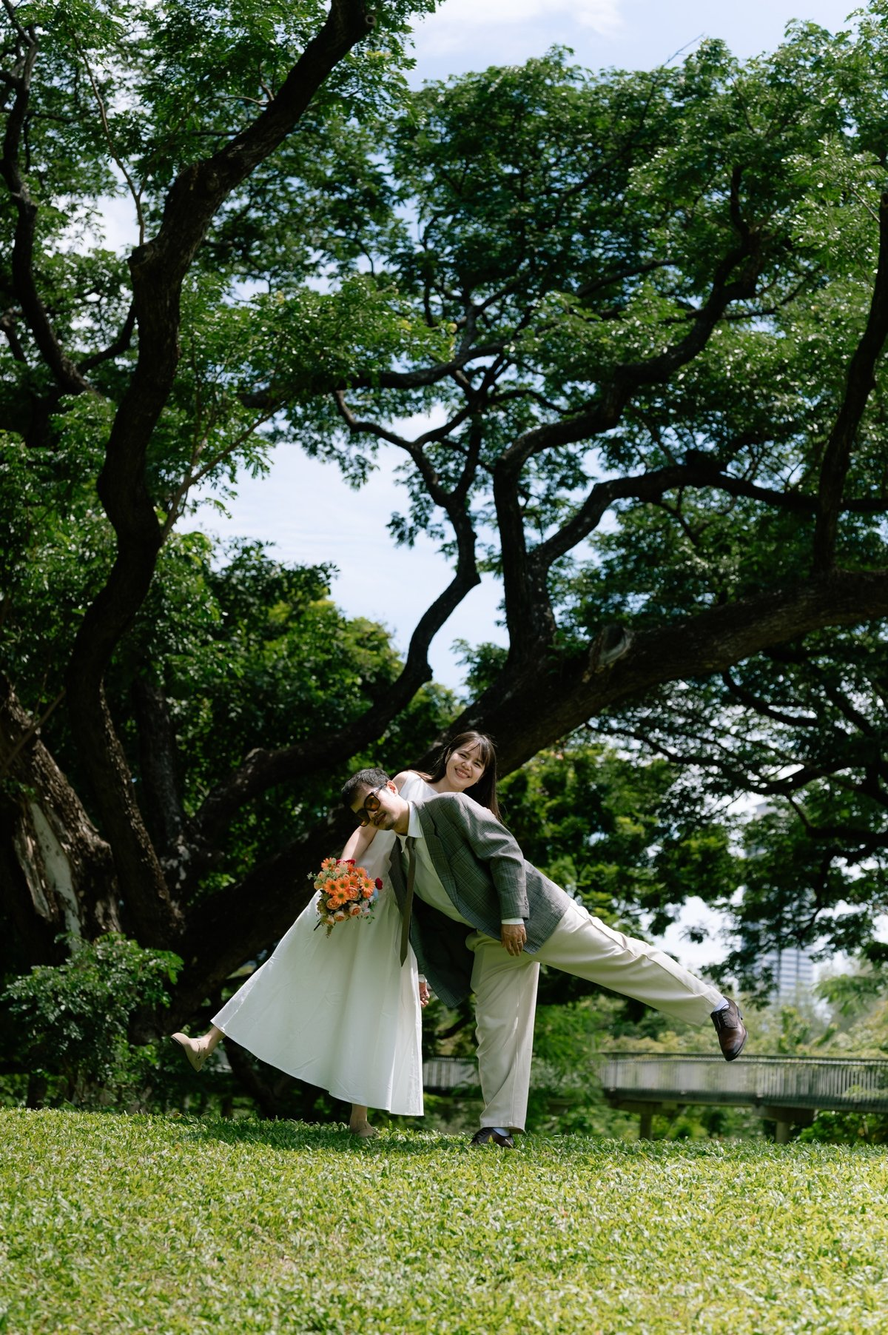
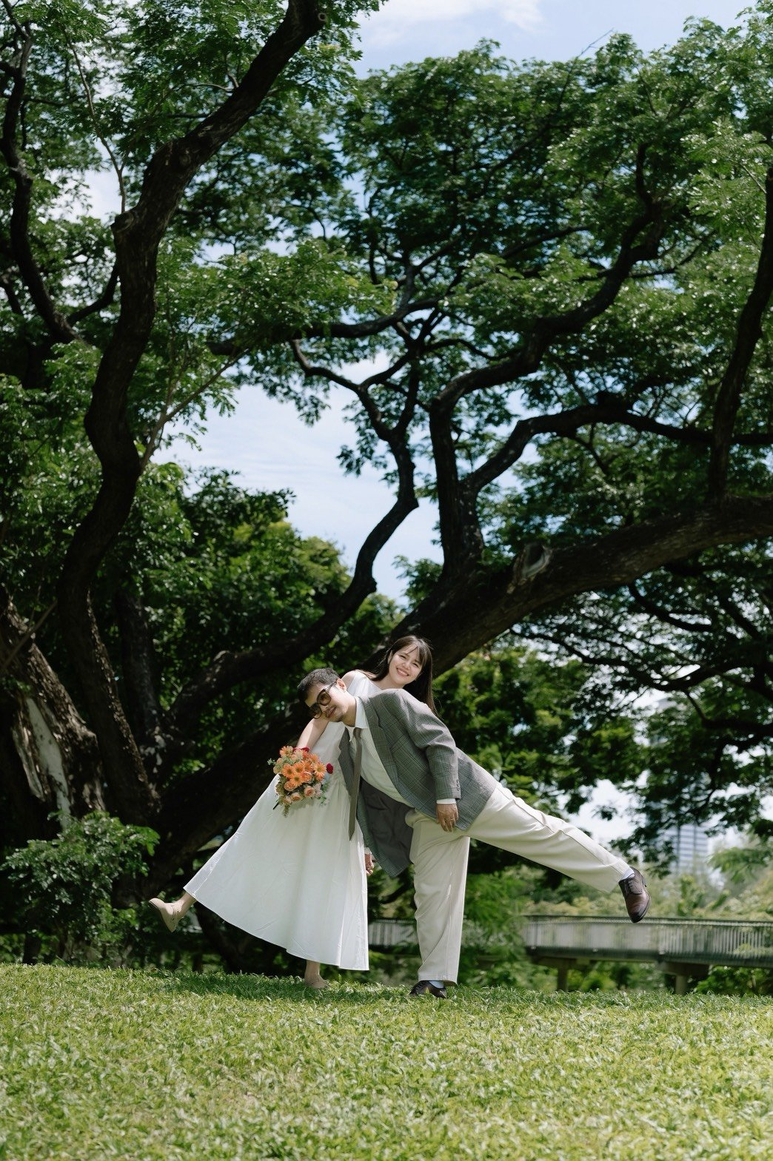
fix: sync updated retouched photos to images and regenerate webp with cache buster

diff --git a/gallery.html b/gallery.html
@@ -163,11 +163,11 @@
       </div>
 
       <!-- Item 7 -->
-      <div class="gallery-card group cursor-pointer relative overflow-hidden rounded-2xl shadow-md border border-stone-200 bg-white" onclick="openLightbox('images/IMG_7822.JPG', 'Moment 07')">
+      <div class="gallery-card group cursor-pointer relative overflow-hidden rounded-2xl shadow-md border border-stone-200 bg-white" onclick="openLightbox('images/IMG_7822.JPG?v=2', 'Moment 07')">
         <div class="aspect-[3/4] overflow-hidden">
           <picture>
-            <source srcset="images/optimized/IMG_7822.webp" type="image/webp">
-            <img src="images/IMG_7822.JPG" alt="Pre-wedding 7" class="w-full h-full object-cover group-hover:scale-105 transition duration-700" loading="lazy">
+            <source srcset="images/optimized/IMG_7822.webp?v=2" type="image/webp">
+            <img src="images/IMG_7822.JPG?v=2" alt="Pre-wedding 7" class="w-full h-full object-cover group-hover:scale-105 transition duration-700" loading="lazy">
           </picture>
         </div>
         <div class="absolute inset-0 bg-black/40 opacity-0 group-hover:opacity-100 transition duration-300 flex items-end p-4 text-white">
@@ -228,11 +228,11 @@
       </div>
 
       <!-- Item 12 -->
-      <div class="gallery-card group cursor-pointer relative overflow-hidden rounded-2xl shadow-md border border-stone-200 bg-white" onclick="openLightbox('images/S__35856409.jpg', 'Moment 12: Warm Smiles')">
+      <div class="gallery-card group cursor-pointer relative overflow-hidden rounded-2xl shadow-md border border-stone-200 bg-white" onclick="openLightbox('images/S__35856409.jpg?v=2', 'Moment 12: Warm Smiles')">
         <div class="aspect-[3/4] overflow-hidden">
           <picture>
-            <source srcset="images/optimized/S__35856409.webp" type="image/webp">
-            <img src="images/S__35856409.jpg" alt="Pre-wedding 12" class="w-full h-full object-cover group-hover:scale-105 transition duration-700" loading="lazy">
+            <source srcset="images/optimized/S__35856409.webp?v=2" type="image/webp">
+            <img src="images/S__35856409.jpg?v=2" alt="Pre-wedding 12" class="w-full h-full object-cover group-hover:scale-105 transition duration-700" loading="lazy">
           </picture>
         </div>
         <div class="absolute inset-0 bg-black/40 opacity-0 group-hover:opacity-100 transition duration-300 flex items-end p-4 text-white">

diff --git a/index.html b/index.html
@@ -579,8 +579,8 @@
         </div>
         <div class="photo-slider-item absolute inset-0 transition-opacity duration-700 opacity-0 pointer-events-none">
           <picture>
-            <source srcset="images/optimized/IMG_7822.webp" type="image/webp">
-            <img src="images/IMG_7822.JPG" class="w-full h-full object-cover" alt="Moments 5" loading="lazy">
+            <source srcset="images/optimized/IMG_7822.webp?v=2" type="image/webp">
+            <img src="images/IMG_7822.JPG?v=2" class="w-full h-full object-cover" alt="Moments 5" loading="lazy">
           </picture>
         </div>
         <div class="photo-slider-item absolute inset-0 transition-opacity duration-700 opacity-0 pointer-events-none">
@@ -597,8 +597,8 @@
         </div>
         <div class="photo-slider-item absolute inset-0 transition-opacity duration-700 opacity-0 pointer-events-none">
           <picture>
-            <source srcset="images/optimized/S__35856409.webp" type="image/webp">
-            <img src="images/S__35856409.jpg" class="w-full h-full object-cover" alt="Moments 8" loading="lazy">
+            <source srcset="images/optimized/S__35856409.webp?v=2" type="image/webp">
+            <img src="images/S__35856409.jpg?v=2" class="w-full h-full object-cover" alt="Moments 8" loading="lazy">
           </picture>
         </div>
         <div class="photo-slider-item absolute inset-0 transition-opacity duration-700 opacity-0 pointer-events-none">
